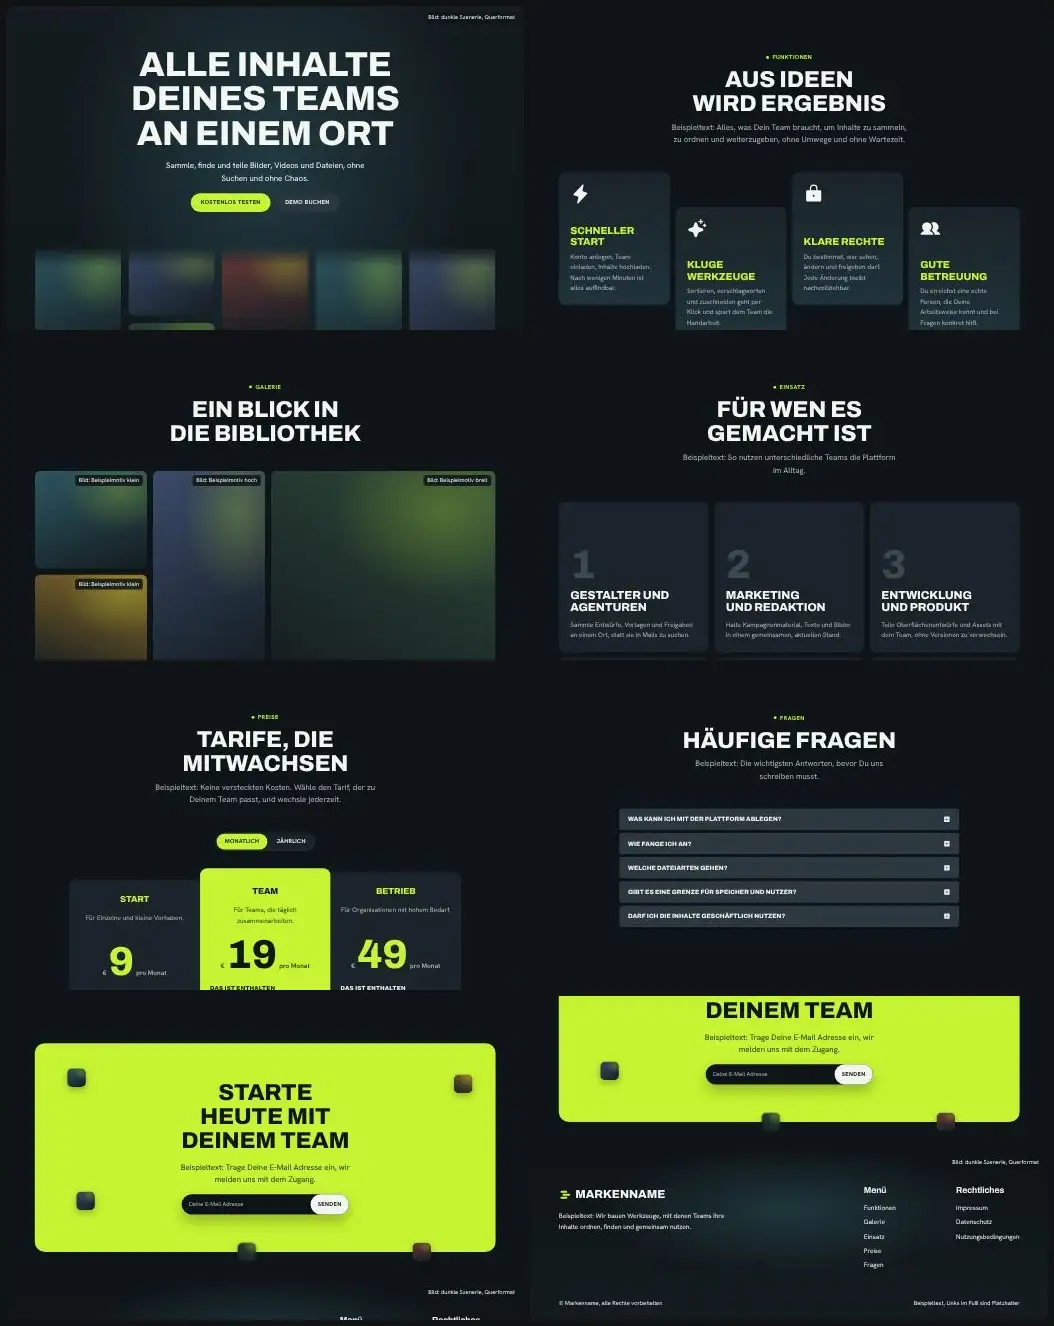
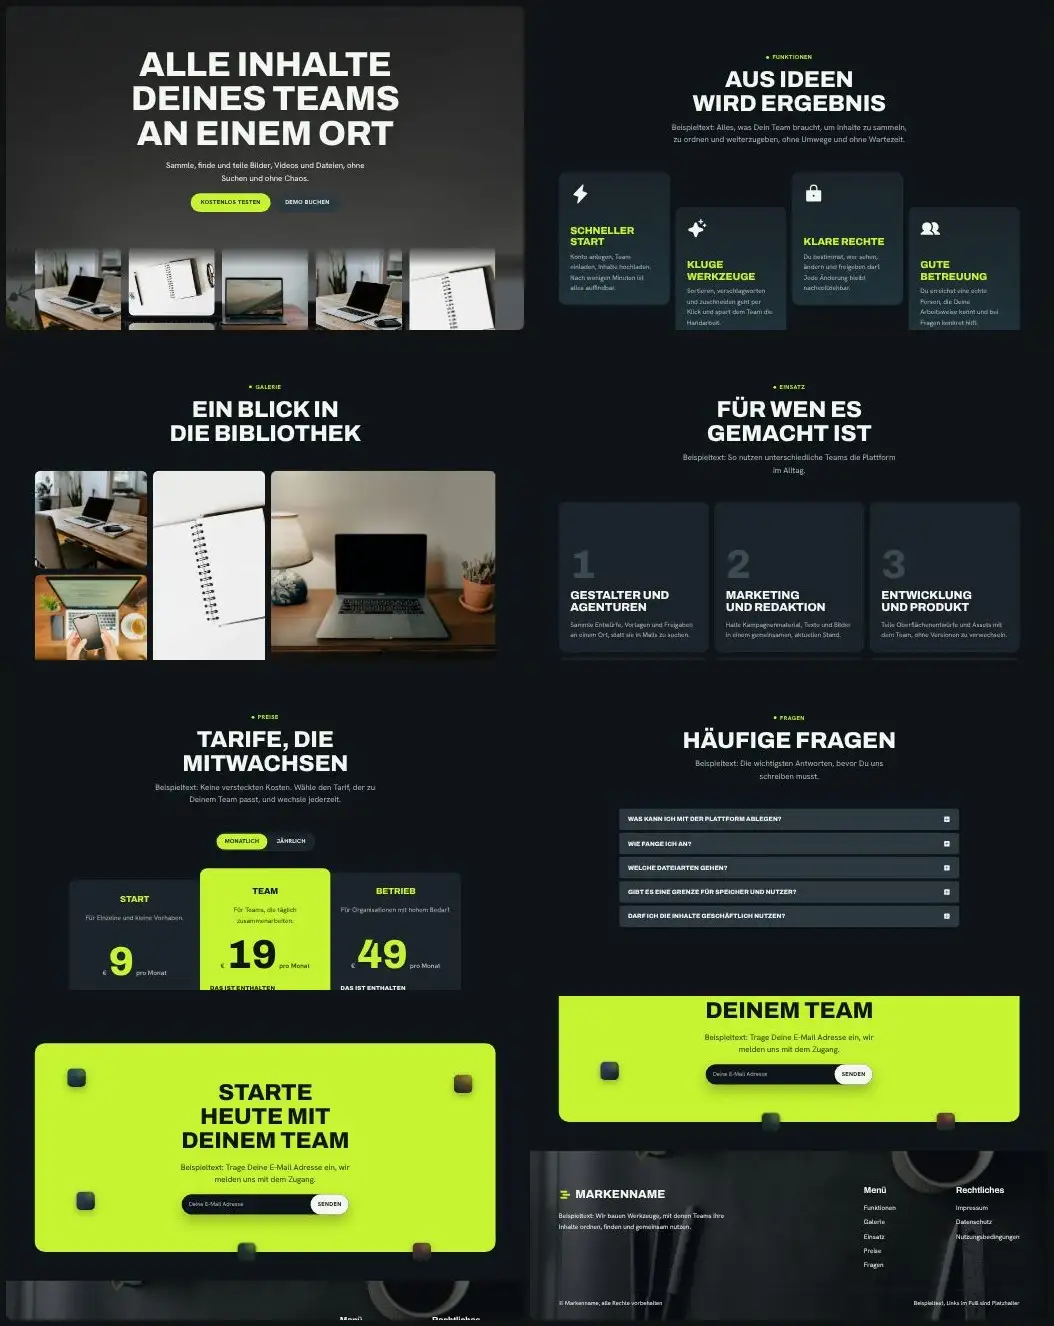
Bibliothek t48: Beispielfotos (Unsplash) eingebaut, Vorschaubilder neu erzeugt
Claude-Session: https://claude.ai/code/session_01DoGuL1bwF3ewggMgZ4Cpvd

diff --git a/skills/webdesign-conversion/assets/vorlagen/bibliothek/t48/index.html b/skills/webdesign-conversion/assets/vorlagen/bibliothek/t48/index.html
@@ -61,7 +61,7 @@
 <main id="inhalt">
   <!-- 1. Held: mittig, darunter fünf gegenläufige Bildspalten und das App Fenster -->
   <section class="held" id="top" aria-labelledby="h-held">
-    <div class="bild held__grund" data-platzhalter="Bild: dunkle Szenerie, Querformat" aria-hidden="true"></div>
+    <div class="bild held__grund" aria-hidden="true"><img src="bilder/schreibtisch-abendlicht.webp" width="1600" height="1067" alt="" decoding="async"></div>
     <div class="wrap held__innen">
       <div class="held__kopf" data-staffel>
         <h1 id="h-held" data-zeig>Alle Inhalte Deines Teams an einem Ort</h1>
@@ -73,11 +73,11 @@
       </div>
     </div>
     <div class="spalten" aria-hidden="true">
-      <div class="spalte"><div class="spalte__spur"><div class="spalte__haelfte"><span class="bild bild--a h-1" data-platzhalter="Bild: Beispielmotiv"></span><span class="bild bild--b h-3" data-platzhalter="Bild: Beispielmotiv"></span><span class="bild bild--c h-5" data-platzhalter="Bild: Beispielmotiv"></span><span class="bild bild--d h-2" data-platzhalter="Bild: Beispielmotiv"></span><span class="bild bild--e h-4" data-platzhalter="Bild: Beispielmotiv"></span><span class="bild bild--f h-1" data-platzhalter="Bild: Beispielmotiv"></span><span class="bild bild--a h-3" data-platzhalter="Bild: Beispielmotiv"></span></div><div class="spalte__haelfte"><span class="bild bild--a h-1" data-platzhalter="Bild: Beispielmotiv"></span><span class="bild bild--b h-3" data-platzhalter="Bild: Beispielmotiv"></span><span class="bild bild--c h-5" data-platzhalter="Bild: Beispielmotiv"></span><span class="bild bild--d h-2" data-platzhalter="Bild: Beispielmotiv"></span><span class="bild bild--e h-4" data-platzhalter="Bild: Beispielmotiv"></span><span class="bild bild--f h-1" data-platzhalter="Bild: Beispielmotiv"></span><span class="bild bild--a h-3" data-platzhalter="Bild: Beispielmotiv"></span></div></div></div>
-      <div class="spalte spalte--ab"><div class="spalte__spur"><div class="spalte__haelfte"><span class="bild bild--c h-4" data-platzhalter="Bild: Beispielmotiv"></span><span class="bild bild--d h-1" data-platzhalter="Bild: Beispielmotiv"></span><span class="bild bild--e h-3" data-platzhalter="Bild: Beispielmotiv"></span><span class="bild bild--f h-5" data-platzhalter="Bild: Beispielmotiv"></span><span class="bild bild--a h-2" data-platzhalter="Bild: Beispielmotiv"></span><span class="bild bild--b h-4" data-platzhalter="Bild: Beispielmotiv"></span><span class="bild bild--c h-1" data-platzhalter="Bild: Beispielmotiv"></span></div><div class="spalte__haelfte"><span class="bild bild--c h-4" data-platzhalter="Bild: Beispielmotiv"></span><span class="bild bild--d h-1" data-platzhalter="Bild: Beispielmotiv"></span><span class="bild bild--e h-3" data-platzhalter="Bild: Beispielmotiv"></span><span class="bild bild--f h-5" data-platzhalter="Bild: Beispielmotiv"></span><span class="bild bild--a h-2" data-platzhalter="Bild: Beispielmotiv"></span><span class="bild bild--b h-4" data-platzhalter="Bild: Beispielmotiv"></span><span class="bild bild--c h-1" data-platzhalter="Bild: Beispielmotiv"></span></div></div></div>
-      <div class="spalte"><div class="spalte__spur"><div class="spalte__haelfte"><span class="bild bild--e h-2" data-platzhalter="Bild: Beispielmotiv"></span><span class="bild bild--f h-4" data-platzhalter="Bild: Beispielmotiv"></span><span class="bild bild--a h-1" data-platzhalter="Bild: Beispielmotiv"></span><span class="bild bild--b h-3" data-platzhalter="Bild: Beispielmotiv"></span><span class="bild bild--c h-5" data-platzhalter="Bild: Beispielmotiv"></span><span class="bild bild--d h-2" data-platzhalter="Bild: Beispielmotiv"></span><span class="bild bild--e h-4" data-platzhalter="Bild: Beispielmotiv"></span></div><div class="spalte__haelfte"><span class="bild bild--e h-2" data-platzhalter="Bild: Beispielmotiv"></span><span class="bild bild--f h-4" data-platzhalter="Bild: Beispielmotiv"></span><span class="bild bild--a h-1" data-platzhalter="Bild: Beispielmotiv"></span><span class="bild bild--b h-3" data-platzhalter="Bild: Beispielmotiv"></span><span class="bild bild--c h-5" data-platzhalter="Bild: Beispielmotiv"></span><span class="bild bild--d h-2" data-platzhalter="Bild: Beispielmotiv"></span><span class="bild bild--e h-4" data-platzhalter="Bild: Beispielmotiv"></span></div></div></div>
-      <div class="spalte spalte--ab"><div class="spalte__spur"><div class="spalte__haelfte"><span class="bild bild--a h-5" data-platzhalter="Bild: Beispielmotiv"></span><span class="bild bild--b h-2" data-platzhalter="Bild: Beispielmotiv"></span><span class="bild bild--c h-4" data-platzhalter="Bild: Beispielmotiv"></span><span class="bild bild--d h-1" data-platzhalter="Bild: Beispielmotiv"></span><span class="bild bild--e h-3" data-platzhalter="Bild: Beispielmotiv"></span><span class="bild bild--f h-5" data-platzhalter="Bild: Beispielmotiv"></span><span class="bild bild--a h-2" data-platzhalter="Bild: Beispielmotiv"></span></div><div class="spalte__haelfte"><span class="bild bild--a h-5" data-platzhalter="Bild: Beispielmotiv"></span><span class="bild bild--b h-2" data-platzhalter="Bild: Beispielmotiv"></span><span class="bild bild--c h-4" data-platzhalter="Bild: Beispielmotiv"></span><span class="bild bild--d h-1" data-platzhalter="Bild: Beispielmotiv"></span><span class="bild bild--e h-3" data-platzhalter="Bild: Beispielmotiv"></span><span class="bild bild--f h-5" data-platzhalter="Bild: Beispielmotiv"></span><span class="bild bild--a h-2" data-platzhalter="Bild: Beispielmotiv"></span></div></div></div>
-      <div class="spalte"><div class="spalte__spur"><div class="spalte__haelfte"><span class="bild bild--c h-3" data-platzhalter="Bild: Beispielmotiv"></span><span class="bild bild--d h-5" data-platzhalter="Bild: Beispielmotiv"></span><span class="bild bild--e h-2" data-platzhalter="Bild: Beispielmotiv"></span><span class="bild bild--f h-4" data-platzhalter="Bild: Beispielmotiv"></span><span class="bild bild--a h-1" data-platzhalter="Bild: Beispielmotiv"></span><span class="bild bild--b h-3" data-platzhalter="Bild: Beispielmotiv"></span><span class="bild bild--c h-5" data-platzhalter="Bild: Beispielmotiv"></span></div><div class="spalte__haelfte"><span class="bild bild--c h-3" data-platzhalter="Bild: Beispielmotiv"></span><span class="bild bild--d h-5" data-platzhalter="Bild: Beispielmotiv"></span><span class="bild bild--e h-2" data-platzhalter="Bild: Beispielmotiv"></span><span class="bild bild--f h-4" data-platzhalter="Bild: Beispielmotiv"></span><span class="bild bild--a h-1" data-platzhalter="Bild: Beispielmotiv"></span><span class="bild bild--b h-3" data-platzhalter="Bild: Beispielmotiv"></span><span class="bild bild--c h-5" data-platzhalter="Bild: Beispielmotiv"></span></div></div></div>
+      <div class="spalte"><div class="spalte__spur"><div class="spalte__haelfte"><span class="bild bild--a h-1"><img src="bilder/arbeitsplatz-esstisch.webp" width="700" height="467" alt="" loading="lazy" decoding="async"></span><span class="bild bild--b h-3"><img src="bilder/handy-laptop-draufsicht.webp" width="700" height="467" alt="" loading="lazy" decoding="async"></span><span class="bild bild--c h-5"><img src="bilder/notizbuch-brille.webp" width="700" height="465" alt="" loading="lazy" decoding="async"></span><span class="bild bild--d h-2"><img src="bilder/laptop-holztisch-lampe.webp" width="700" height="456" alt="" loading="lazy" decoding="async"></span><span class="bild bild--e h-4"><img src="bilder/laptop-holztisch-tasse.webp" width="700" height="467" alt="" loading="lazy" decoding="async"></span><span class="bild bild--f h-1"><img src="bilder/kaffee-notizbuch.webp" width="700" height="467" alt="" loading="lazy" decoding="async"></span><span class="bild bild--a h-3"><img src="bilder/arbeitsplatz-esstisch.webp" width="700" height="467" alt="" loading="lazy" decoding="async"></span></div><div class="spalte__haelfte"><span class="bild bild--a h-1"><img src="bilder/arbeitsplatz-esstisch.webp" width="700" height="467" alt="" loading="lazy" decoding="async"></span><span class="bild bild--b h-3"><img src="bilder/handy-laptop-draufsicht.webp" width="700" height="467" alt="" loading="lazy" decoding="async"></span><span class="bild bild--c h-5"><img src="bilder/notizbuch-brille.webp" width="700" height="465" alt="" loading="lazy" decoding="async"></span><span class="bild bild--d h-2"><img src="bilder/laptop-holztisch-lampe.webp" width="700" height="456" alt="" loading="lazy" decoding="async"></span><span class="bild bild--e h-4"><img src="bilder/laptop-holztisch-tasse.webp" width="700" height="467" alt="" loading="lazy" decoding="async"></span><span class="bild bild--f h-1"><img src="bilder/kaffee-notizbuch.webp" width="700" height="467" alt="" loading="lazy" decoding="async"></span><span class="bild bild--a h-3"><img src="bilder/arbeitsplatz-esstisch.webp" width="700" height="467" alt="" loading="lazy" decoding="async"></span></div></div></div>
+      <div class="spalte spalte--ab"><div class="spalte__spur"><div class="spalte__haelfte"><span class="bild bild--c h-4"><img src="bilder/notizbuch-brille.webp" width="700" height="465" alt="" loading="lazy" decoding="async"></span><span class="bild bild--d h-1"><img src="bilder/laptop-holztisch-lampe.webp" width="700" height="456" alt="" loading="lazy" decoding="async"></span><span class="bild bild--e h-3"><img src="bilder/laptop-holztisch-tasse.webp" width="700" height="467" alt="" loading="lazy" decoding="async"></span><span class="bild bild--f h-5"><img src="bilder/kaffee-notizbuch.webp" width="700" height="467" alt="" loading="lazy" decoding="async"></span><span class="bild bild--a h-2"><img src="bilder/arbeitsplatz-esstisch.webp" width="700" height="467" alt="" loading="lazy" decoding="async"></span><span class="bild bild--b h-4"><img src="bilder/handy-laptop-draufsicht.webp" width="700" height="467" alt="" loading="lazy" decoding="async"></span><span class="bild bild--c h-1"><img src="bilder/notizbuch-brille.webp" width="700" height="465" alt="" loading="lazy" decoding="async"></span></div><div class="spalte__haelfte"><span class="bild bild--c h-4"><img src="bilder/notizbuch-brille.webp" width="700" height="465" alt="" loading="lazy" decoding="async"></span><span class="bild bild--d h-1"><img src="bilder/laptop-holztisch-lampe.webp" width="700" height="456" alt="" loading="lazy" decoding="async"></span><span class="bild bild--e h-3"><img src="bilder/laptop-holztisch-tasse.webp" width="700" height="467" alt="" loading="lazy" decoding="async"></span><span class="bild bild--f h-5"><img src="bilder/kaffee-notizbuch.webp" width="700" height="467" alt="" loading="lazy" decoding="async"></span><span class="bild bild--a h-2"><img src="bilder/arbeitsplatz-esstisch.webp" width="700" height="467" alt="" loading="lazy" decoding="async"></span><span class="bild bild--b h-4"><img src="bilder/handy-laptop-draufsicht.webp" width="700" height="467" alt="" loading="lazy" decoding="async"></span><span class="bild bild--c h-1"><img src="bilder/notizbuch-brille.webp" width="700" height="465" alt="" loading="lazy" decoding="async"></span></div></div></div>
+      <div class="spalte"><div class="spalte__spur"><div class="spalte__haelfte"><span class="bild bild--e h-2"><img src="bilder/laptop-holztisch-tasse.webp" width="700" height="467" alt="" loading="lazy" decoding="async"></span><span class="bild bild--f h-4"><img src="bilder/kaffee-notizbuch.webp" width="700" height="467" alt="" loading="lazy" decoding="async"></span><span class="bild bild--a h-1"><img src="bilder/arbeitsplatz-esstisch.webp" width="700" height="467" alt="" loading="lazy" decoding="async"></span><span class="bild bild--b h-3"><img src="bilder/handy-laptop-draufsicht.webp" width="700" height="467" alt="" loading="lazy" decoding="async"></span><span class="bild bild--c h-5"><img src="bilder/notizbuch-brille.webp" width="700" height="465" alt="" loading="lazy" decoding="async"></span><span class="bild bild--d h-2"><img src="bilder/laptop-holztisch-lampe.webp" width="700" height="456" alt="" loading="lazy" decoding="async"></span><span class="bild bild--e h-4"><img src="bilder/laptop-holztisch-tasse.webp" width="700" height="467" alt="" loading="lazy" decoding="async"></span></div><div class="spalte__haelfte"><span class="bild bild--e h-2"><img src="bilder/laptop-holztisch-tasse.webp" width="700" height="467" alt="" loading="lazy" decoding="async"></span><span class="bild bild--f h-4"><img src="bilder/kaffee-notizbuch.webp" width="700" height="467" alt="" loading="lazy" decoding="async"></span><span class="bild bild--a h-1"><img src="bilder/arbeitsplatz-esstisch.webp" width="700" height="467" alt="" loading="lazy" decoding="async"></span><span class="bild bild--b h-3"><img src="bilder/handy-laptop-draufsicht.webp" width="700" height="467" alt="" loading="lazy" decoding="async"></span><span class="bild bild--c h-5"><img src="bilder/notizbuch-brille.webp" width="700" height="465" alt="" loading="lazy" decoding="async"></span><span class="bild bild--d h-2"><img src="bilder/laptop-holztisch-lampe.webp" width="700" height="456" alt="" loading="lazy" decoding="async"></span><span class="bild bild--e h-4"><img src="bilder/laptop-holztisch-tasse.webp" width="700" height="467" alt="" loading="lazy" decoding="async"></span></div></div></div>
+      <div class="spalte spalte--ab"><div class="spalte__spur"><div class="spalte__haelfte"><span class="bild bild--a h-5"><img src="bilder/arbeitsplatz-esstisch.webp" width="700" height="467" alt="" loading="lazy" decoding="async"></span><span class="bild bild--b h-2"><img src="bilder/handy-laptop-draufsicht.webp" width="700" height="467" alt="" loading="lazy" decoding="async"></span><span class="bild bild--c h-4"><img src="bilder/notizbuch-brille.webp" width="700" height="465" alt="" loading="lazy" decoding="async"></span><span class="bild bild--d h-1"><img src="bilder/laptop-holztisch-lampe.webp" width="700" height="456" alt="" loading="lazy" decoding="async"></span><span class="bild bild--e h-3"><img src="bilder/laptop-holztisch-tasse.webp" width="700" height="467" alt="" loading="lazy" decoding="async"></span><span class="bild bild--f h-5"><img src="bilder/kaffee-notizbuch.webp" width="700" height="467" alt="" loading="lazy" decoding="async"></span><span class="bild bild--a h-2"><img src="bilder/arbeitsplatz-esstisch.webp" width="700" height="467" alt="" loading="lazy" decoding="async"></span></div><div class="spalte__haelfte"><span class="bild bild--a h-5"><img src="bilder/arbeitsplatz-esstisch.webp" width="700" height="467" alt="" loading="lazy" decoding="async"></span><span class="bild bild--b h-2"><img src="bilder/handy-laptop-draufsicht.webp" width="700" height="467" alt="" loading="lazy" decoding="async"></span><span class="bild bild--c h-4"><img src="bilder/notizbuch-brille.webp" width="700" height="465" alt="" loading="lazy" decoding="async"></span><span class="bild bild--d h-1"><img src="bilder/laptop-holztisch-lampe.webp" width="700" height="456" alt="" loading="lazy" decoding="async"></span><span class="bild bild--e h-3"><img src="bilder/laptop-holztisch-tasse.webp" width="700" height="467" alt="" loading="lazy" decoding="async"></span><span class="bild bild--f h-5"><img src="bilder/kaffee-notizbuch.webp" width="700" height="467" alt="" loading="lazy" decoding="async"></span><span class="bild bild--a h-2"><img src="bilder/arbeitsplatz-esstisch.webp" width="700" height="467" alt="" loading="lazy" decoding="async"></span></div></div></div>
+      <div class="spalte"><div class="spalte__spur"><div class="spalte__haelfte"><span class="bild bild--c h-3"><img src="bilder/notizbuch-brille.webp" width="700" height="465" alt="" loading="lazy" decoding="async"></span><span class="bild bild--d h-5"><img src="bilder/laptop-holztisch-lampe.webp" width="700" height="456" alt="" loading="lazy" decoding="async"></span><span class="bild bild--e h-2"><img src="bilder/laptop-holztisch-tasse.webp" width="700" height="467" alt="" loading="lazy" decoding="async"></span><span class="bild bild--f h-4"><img src="bilder/kaffee-notizbuch.webp" width="700" height="467" alt="" loading="lazy" decoding="async"></span><span class="bild bild--a h-1"><img src="bilder/arbeitsplatz-esstisch.webp" width="700" height="467" alt="" loading="lazy" decoding="async"></span><span class="bild bild--b h-3"><img src="bilder/handy-laptop-draufsicht.webp" width="700" height="467" alt="" loading="lazy" decoding="async"></span><span class="bild bild--c h-5"><img src="bilder/notizbuch-brille.webp" width="700" height="465" alt="" loading="lazy" decoding="async"></span></div><div class="spalte__haelfte"><span class="bild bild--c h-3"><img src="bilder/notizbuch-brille.webp" width="700" height="465" alt="" loading="lazy" decoding="async"></span><span class="bild bild--d h-5"><img src="bilder/laptop-holztisch-lampe.webp" width="700" height="456" alt="" loading="lazy" decoding="async"></span><span class="bild bild--e h-2"><img src="bilder/laptop-holztisch-tasse.webp" width="700" height="467" alt="" loading="lazy" decoding="async"></span><span class="bild bild--f h-4"><img src="bilder/kaffee-notizbuch.webp" width="700" height="467" alt="" loading="lazy" decoding="async"></span><span class="bild bild--a h-1"><img src="bilder/arbeitsplatz-esstisch.webp" width="700" height="467" alt="" loading="lazy" decoding="async"></span><span class="bild bild--b h-3"><img src="bilder/handy-laptop-draufsicht.webp" width="700" height="467" alt="" loading="lazy" decoding="async"></span><span class="bild bild--c h-5"><img src="bilder/notizbuch-brille.webp" width="700" height="465" alt="" loading="lazy" decoding="async"></span></div></div></div>
     </div>
     <div class="wrap held__innen">
       <div class="app" aria-hidden="true" data-beispiel data-zeig>
@@ -98,7 +98,7 @@
           </ul>
         </div>
         <div class="app__haupt">
-          <span class="bild bild--a" data-platzhalter="Bild: Beispielmotiv"></span><span class="bild bild--c" data-platzhalter="Bild: Beispielmotiv"></span><span class="bild bild--d" data-platzhalter="Bild: Beispielmotiv"></span><span class="bild bild--b" data-platzhalter="Bild: Beispielmotiv"></span><span class="bild bild--f" data-platzhalter="Bild: Beispielmotiv"></span><span class="bild bild--e" data-platzhalter="Bild: Beispielmotiv"></span>
+          <span class="bild bild--a"><img src="bilder/arbeitsplatz-esstisch.webp" width="700" height="467" alt="" loading="lazy" decoding="async"></span><span class="bild bild--c"><img src="bilder/notizbuch-brille.webp" width="700" height="465" alt="" loading="lazy" decoding="async"></span><span class="bild bild--d"><img src="bilder/laptop-holztisch-lampe.webp" width="700" height="456" alt="" loading="lazy" decoding="async"></span><span class="bild bild--b"><img src="bilder/handy-laptop-draufsicht.webp" width="700" height="467" alt="" loading="lazy" decoding="async"></span><span class="bild bild--f"><img src="bilder/kaffee-notizbuch.webp" width="700" height="467" alt="" loading="lazy" decoding="async"></span><span class="bild bild--e"><img src="bilder/laptop-holztisch-tasse.webp" width="700" height="467" alt="" loading="lazy" decoding="async"></span>
           <p class="app__eingabe">Beschreibe, was Du suchst<span class="app__senden"><svg width="16" height="16" aria-hidden="true" focusable="false"><use href="#i-arrow-right"/></svg></span></p>
         </div>
       </div>
@@ -142,12 +142,12 @@
         <h2 id="h-galerie" data-zeig>Ein Blick in die Bibliothek</h2>
       </div>
       <div class="mosaik" data-staffel>
-        <div class="bild bild--a m-a" data-zeig data-platzhalter="Bild: Beispielmotiv klein" role="img" aria-label="Platzhalter für ein Bild"></div>
-        <div class="bild bild--b m-b" data-zeig data-platzhalter="Bild: Beispielmotiv klein" role="img" aria-label="Platzhalter für ein Bild"></div>
-        <div class="bild bild--c m-c" data-zeig data-platzhalter="Bild: Beispielmotiv hoch" role="img" aria-label="Platzhalter für ein Bild"></div>
-        <div class="bild bild--d m-d" data-zeig data-platzhalter="Bild: Beispielmotiv breit" role="img" aria-label="Platzhalter für ein Bild"></div>
-        <div class="bild bild--e m-e" data-zeig data-platzhalter="Bild: Beispielmotiv breit" role="img" aria-label="Platzhalter für ein Bild"></div>
-        <div class="bild bild--f m-f" data-zeig data-platzhalter="Bild: Beispielmotiv breit" role="img" aria-label="Platzhalter für ein Bild"></div>
+        <div class="bild bild--a m-a" data-zeig><img src="bilder/arbeitsplatz-esstisch.webp" width="700" height="467" alt="" loading="lazy" decoding="async"></div>
+        <div class="bild bild--b m-b" data-zeig><img src="bilder/handy-laptop-draufsicht.webp" width="700" height="467" alt="" loading="lazy" decoding="async"></div>
+        <div class="bild bild--c m-c" data-zeig><img src="bilder/notizbuch-brille.webp" width="700" height="465" alt="" loading="lazy" decoding="async"></div>
+        <div class="bild bild--d m-d" data-zeig><img src="bilder/laptop-holztisch-lampe.webp" width="700" height="456" alt="" loading="lazy" decoding="async"></div>
+        <div class="bild bild--e m-e" data-zeig><img src="bilder/laptop-holztisch-tasse.webp" width="700" height="467" alt="" loading="lazy" decoding="async"></div>
+        <div class="bild bild--f m-f" data-zeig><img src="bilder/kaffee-notizbuch.webp" width="700" height="467" alt="" loading="lazy" decoding="async"></div>
       </div>
     </div>
   </section>
@@ -324,7 +324,7 @@
 </main>
 
 <footer class="fuss">
-  <div class="bild fuss__grund" data-platzhalter="Bild: dunkle Szenerie, Querformat" aria-hidden="true"></div>
+  <div class="bild fuss__grund" aria-hidden="true"><img src="bilder/schreibtisch-stifte-kaffee.webp" width="1600" height="1067" alt="" loading="lazy" decoding="async"></div>
   <div class="wrap fuss__innen">
     <div class="fuss__raster">
       <div>

diff --git a/skills/webdesign-conversion/assets/vorlagen/bibliothek/t48/stil.css b/skills/webdesign-conversion/assets/vorlagen/bibliothek/t48/stil.css
@@ -250,3 +250,4 @@ nav a[aria-current="location"]{text-decoration:none}
 .held__grund[data-platzhalter]::after{display:none}
 @media (min-width:48rem){.held__grund[data-platzhalter]::after{display:block}}
 .fuss__grund[data-platzhalter]::after{inset:1rem 1rem auto auto}
+.held__grund::before,.fuss__grund::before{content:"";position:absolute;inset:0;z-index:1;background:linear-gradient(180deg,rgba(10,14,18,.62),rgba(10,14,18,.78))}

diff --git a/skills/webdesign-conversion/assets/vorlagen/bibliothek/t48/BILDER.md b/skills/webdesign-conversion/assets/vorlagen/bibliothek/t48/BILDER.md
@@ -1,0 +1,24 @@
+# Bilder t48
+
+Alle Fotos von Unsplash, abgerufen am 25.11.2026. Titel und Lizenz stehen so auf der Seite des Fotos (Titel von Unsplash automatisch vergeben), als Fotograf ist das Unsplash Profil angegeben, weil die Seite den Namen nur als Profillink zeigte. Lizenz ist jeweils die Unsplash Lizenz.
+
+| Datei | Platz | Foto Titel | Fotograf (Profil) | Seite | Lizenz | Abruf |
+|---|---|---|---|---|---|---|
+| arbeitsplatz-esstisch.webp.webp | Motivwand Typ a, Galerie m-a | Ein Laptop auf einem Tisch | kellysikkema | https://unsplash.com/photos/7rq8zzRBWG0 | Unsplash Lizenz | 25.11.2026 |
+| handy-laptop-draufsicht.webp.webp | Motivwand Typ b, Galerie m-b | Eine Person, die ein Handy vor einen Laptop hält | jakubzerdzicki | https://unsplash.com/photos/hWeL2BtinAk | Unsplash Lizenz | 25.11.2026 |
+| notizbuch-brille.webp.webp | Motivwand Typ c, Galerie m-c | Spiralnotizbuch und schwarzer Stift | laurensauderstudio | https://unsplash.com/photos/1OUzxbySjlQ | Unsplash Lizenz | 25.11.2026 |
+| laptop-holztisch-lampe.webp.webp | Motivwand Typ d, Galerie m-d | MacBook Pro auf braunem Holztisch | claybanks | https://unsplash.com/photos/s7IIk_2dA7g | Unsplash Lizenz | 25.11.2026 |
+| laptop-holztisch-tasse.webp.webp | Motivwand Typ e, Galerie m-e | ein Laptop auf einem Holztisch | claybanks | https://unsplash.com/photos/ZWfOEaNfelY | Unsplash Lizenz | 25.11.2026 |
+| kaffee-notizbuch.webp.webp | Motivwand Typ f, Galerie m-f | Schokoladengetränk im Becher in der Nähe | sixteenmilesout | https://unsplash.com/photos/_47k56_LdDQ | Unsplash Lizenz | 25.11.2026 |
+| schreibtisch-abendlicht.webp.webp | Hero Hintergrund | schwarz-silberner Laptop auf braunem Holztisch | nublson | https://unsplash.com/photos/9_AChhXcrc8 | Unsplash Lizenz | 25.11.2026 |
+| schreibtisch-stifte-kaffee.webp.webp | Fuß Hintergrund | Kaffee, Pflanze, Stifte und ein Lineal | kellysikkema | https://unsplash.com/photos/Qgm9Tk8BpWs | Unsplash Lizenz | 25.11.2026 |
+
+## Hinweise
+
+* Die Motivwand (über 80 Plätze in Laufspuren) benutzt nur sechs Dateien, die je Typ a bis f wiederkehren; alt ist dort leer, weil die Wand Dekoration ist.
+* Hero und Fuß haben eine dunkle Überlagerung per CSS (stil.css), sonst ist die Schrift nicht lesbar.
+* Platzhalter heißt bei den Motiven Beispielmotiv: bei einem echten Projekt durch Kundenmaterial ersetzen.
+
+## Offen
+
+* Drei Porträts der Stimmen
